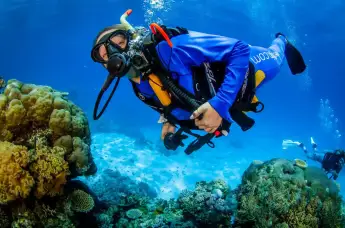
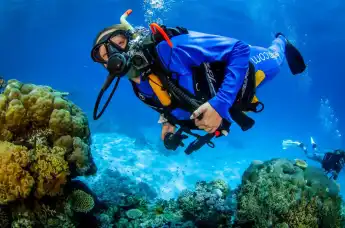
changes

diff --git a/index.html b/index.html
@@ -309,8 +309,8 @@
 
               <article class="place-item place-item--3d" data-location-link="/locations/bali/uluwatu.html">
                 <div class="place-item__panel">
-                  <img class="place-item__img" src="assets/images/location6.webp"
-                    srcset="assets/images/location6-card.webp 406w, assets/images/location6.webp 900w"
+                  <img class="place-item__img" src="assets/images/location6-card.webp"
+                    srcset="assets/images/location6-card.webp 406w"
                     sizes="203px" alt="" loading="lazy" decoding="async" />
                   <div class="place-item__overlay" aria-hidden="true"></div>
                   <div class="place-item__glow" aria-hidden="true"></div>
@@ -446,8 +446,8 @@
             data-package-hover-images="images/isolated.webp,images/isolated1.webp,images/isolated2.webp">
             <div class="package-thumb">
               <span class="offer">15% off</span>
-              <img src="assets/images/isolated.webp"
-                srcset="assets/images/isolated-thumb.webp 690w, assets/images/isolated.webp 920w"
+              <img src="assets/images/isolated-thumb.webp"
+                srcset="assets/images/isolated-thumb.webp 690w"
                 sizes="(max-width: 768px) 92vw, 345px" alt="Isolated Mountains" loading="lazy" decoding="async" />
             </div>
             <p class="location"><i class="fa-solid fa-location-dot"></i> Nusa Penida, Indonesia</p>
@@ -800,9 +800,9 @@
             <article class="bento-cell bento-cell--camper" data-ft-bento data-ft-enter="top">
               <span class="bento-cell__glow" aria-hidden="true"></span>
               <div class="bento-cell__media">
-                <img src="assets/images/family-tour1-ft690.webp"
-                  srcset="assets/images/family-tour1-ft345.webp 345w, assets/images/family-tour1-ft690.webp 690w"
-                  sizes="(max-width: 900px) 88vw, 345px" width="345" height="228"
+                <img src="assets/images/family-tour1-ft345.webp"
+                  srcset="assets/images/family-tour1-ft345.webp 345w"
+                  sizes="345px" width="345" height="228"
                   alt="Travelers beside a camper under the stars" fetchpriority="high" decoding="async" />
               </div>
             </article>